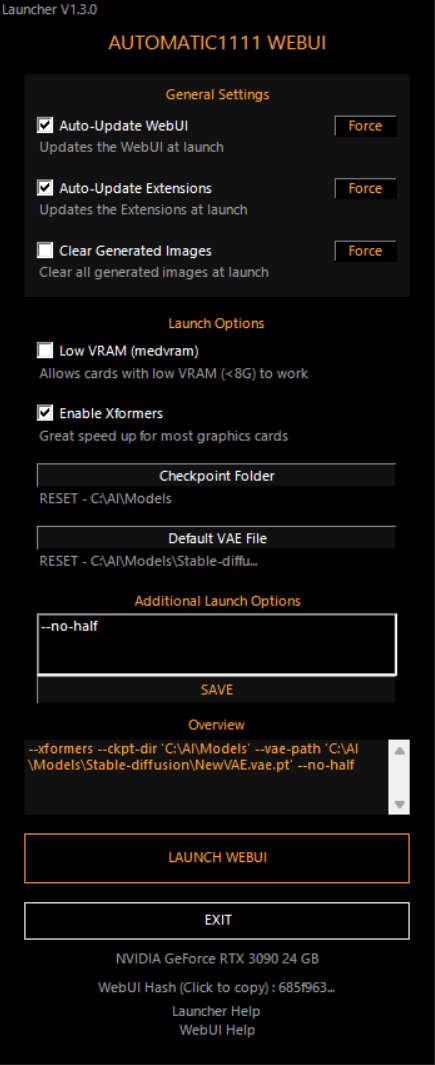
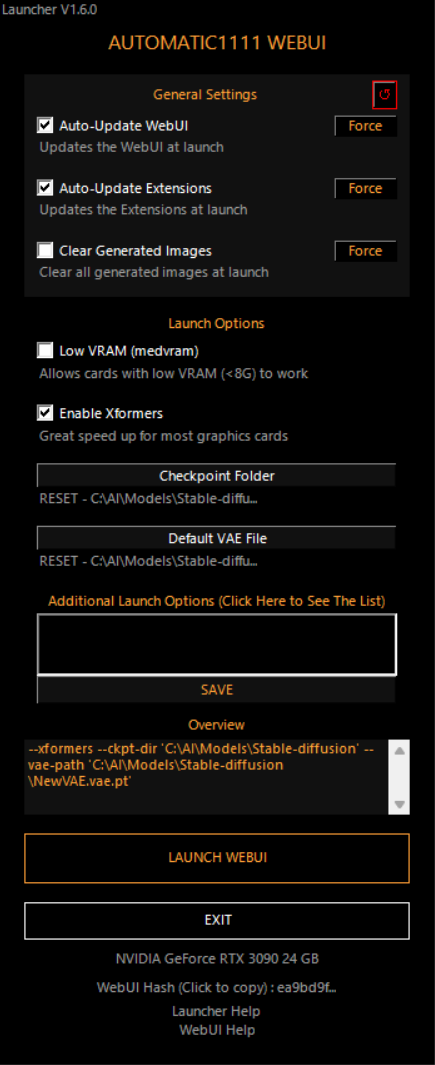
Updating Readme

diff --git a/README.md b/README.md
@@ -32,8 +32,8 @@ If you want to improve the installer, git clone or Fork & Pull Request (this pro
 7.  You can drag & drop it on your taskbar if you wish, this is the launcher for the WebUI
 8.  Launch the shortcut to open the **[Custom Launcher](#the-launcher)**
 9.  It should install all the dependencies and ask you if you want to download the base SD model to generate images
-    >⚠Click "No" only if you already have one or more models somewhere, and don't forget to select the folder where they're stored in the launcher
-10. Once you've selected what you wanted in the launcher, click **`LAUNCH WEBUI`**, this will quit the launcher and proceed in the terminal window, logging what it's doing 
+    >⚠Click "No" only if you already have one or more models somewhere, and if so don't forget to select their parent folders in the launcher
+10. Once you've set the launcher according to your preferences, click **`LAUNCH WEBUI`**, this will quit the launcher and proceed in the terminal window, logging what it's doing 
       >⚠**Be patient** this will take a while at first, when it's ready, it will open the webUI in your browser
 
       >⚠**Read the WARN message**
@@ -49,11 +49,14 @@ When double clicking ***A1111 WebUI (Pin to Taskbar)*** You should be greeted wi
 ## Features
 
 ## **`General Settings`**
- > The **<kbd>Force</kbd>** buttons will execute the relevant function as soon as you click instead of waiting for launch
+- **The red <kbd>↺</kbd> button**: This will wipe the *stable-diffusion-webui* folder and reclone it from github
+   > ⚠ The folder is permanently deleted so make some back ups if needed ! A pop up will ask you for confirmation
 - [x] **Auto-Update WebUI** : This will update (git pull) the WebUI everytime you launch it
 - [x] **Auto-Update Extensions** : Same thing but with the extensions
 - [x] **Clear Generated Images** : This will clear all previously generated images from the outputs folder at launch.
-   > ⚠ The images are permanently deleted ! A pop up will ask you for confirmation at launch if enabled, and you'll also be able to skip the deletion without disabling it.
+   > ⚠ The images are permanently deleted ! A pop up will ask you for confirmation
+
+ > The **<kbd>Force</kbd>** buttons next to the above functions will execute the relevant function as soon as you click instead of waiting for launch
 
    >**Note**: If you have a custom output folder, only the folder specified in the  "***Output directory for images; if empty, defaults to three directories below***" field in the WebUI settings will  be cleared.
 ## **`Launch Options`**
